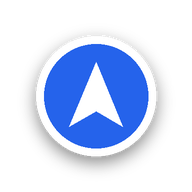
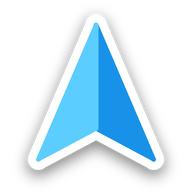
La freccia come Waze, e il celeste ai lati della coda si vede
- La freccia di navigazione: due toni di celeste, bordo bianco spesso e
  ombra morbida, senza il tondo blu dietro. La disegna
  tools/disegna_freccia.py.
- Col traffico la linea celeste è più larga e la coda più stretta: ai lati
  del rosso il celeste passa da 1,25 a 2,25 px per parte a zoom 12, e da
  3,5 a 7 a zoom 18.

Claude-Session: https://claude.ai/code/session_01Fi1szPkgYWAG8PNdWvu5yu

diff --git a/packages/gdanav_app/lib/mappa/stile.dart b/packages/gdanav_app/lib/mappa/stile.dart
@@ -204,9 +204,12 @@ List<Object> _seEco(String verde, String altro) => [
 
 /// Le larghezze del percorso a zoom 12 e a zoom 18: il bordo, la linea
 /// celeste e, dentro, la striscia della coda (vedi lo stile del percorso).
-const larghezzaBordo = (10.5, 30.0);
-const larghezzaPercorso = (8.0, 24.0);
-const larghezzaCoda = (5.5, 17.0);
+/* «Se c'è il rosso, la linea celeste all'esterno deve essere ancora un po'
+ * più larga: si deve vedere.» Il celeste ai lati della coda era 1,25 px per
+ * parte a zoom 12 e 3,5 a zoom 18: adesso 2,25 e 7. */
+const larghezzaBordo = (12.0, 35.0);
+const larghezzaPercorso = (9.5, 29.0);
+const larghezzaCoda = (5.0, 15.0);
 
 /// Larghezza che cresce con lo zoom, come fanno le strade vere.
 List<Object> _largo(double a12, double a18) => [
@@ -725,7 +728,7 @@ Map<String, Object> stileMappa({required bool scuro, String chiaveTraffico = '',
        * era larga quanto la linea e ci si posava sopra: nei tratti in coda il
        * percorso spariva, e una strada rossa sulla mappa non diceva più se
        * era la propria o una qualunque. Per questo la linea è un po' più
-       * larga di prima ([larghezzaPercorso]) e la coda circa due terzi
+       * larga di prima ([larghezzaPercorso]) e la coda circa la metà
        * ([larghezzaCoda]): «la linea del percorso è leggermente più larga,
        * quindi si vede al centro striscia rossa e ai lati striscia celeste».
        * Il celeste è un bordo, non una seconda strada accanto al rosso. */

diff --git a/packages/gdanav_app/test/stile_percorso_test.dart b/packages/gdanav_app/test/stile_percorso_test.dart
@@ -35,10 +35,12 @@ void main() {
         final linea = larghezza(s('percorso'), z);
         final coda = larghezza(s('code'), z);
         expect(linea, lessThan(bordo));
-        // Più stretta della linea, ai lati resta un bordo celeste; ma il
-        // rosso è la cosa che si legge: come in Waze, due terzi abbondanti.
-        expect(coda, lessThan(linea * 0.8));
-        expect(coda, greaterThan(linea * 0.6));
+        // Più stretta della linea, ai lati resta un bordo celeste che si
+        // vede: «se c'è il rosso, la linea celeste all'esterno deve essere
+        // ancora un po' più larga». Il rosso resta metà abbondante.
+        expect(coda, lessThan(linea * 0.6));
+        expect(coda, greaterThan(linea * 0.45));
+        expect((linea - coda) / 2, greaterThanOrEqualTo(2.0));
       }
     });
   }

diff --git a/tools/disegna_freccia.py b/tools/disegna_freccia.py
@@ -1,0 +1,41 @@
+"""La freccia di navigazione, come quella di Waze.
+
+«Mi cambi lo stile della freccia, la voglio come Waze.» Due toni di celeste —
+la meta' sinistra piu' chiara, la destra piu' scura, come una freccia piegata
+sul dorso — un bordo bianco spesso e un'ombra morbida; niente tondo dietro.
+
+    python3 tools/disegna_freccia.py packages/gdanav_app/assets/segnaposto/freccia.png
+"""
+import sys
+from PIL import Image, ImageDraw, ImageFilter
+S=4; N=192; W=N*S
+def pt(x,y): return (x*W, y*W)
+# La freccia, in su: punta, ala destra, incavo, ala sinistra.
+punta=(0.5,0.13); destra=(0.80,0.83); incavo=(0.5,0.67); sinistra=(0.20,0.83)
+forma=[punta,destra,incavo,sinistra]
+def gonfia(poly, r, img, colore):
+    d=ImageDraw.Draw(img)
+    pts=[pt(*p) for p in poly]
+    d.polygon(pts, fill=colore)
+    for i in range(len(pts)):
+        a=pts[i]; b=pts[(i+1)%len(pts)]
+        d.line([a,b], fill=colore, width=int(2*r))
+        d.ellipse([a[0]-r,a[1]-r,a[0]+r,a[1]+r], fill=colore)
+img=Image.new("RGBA",(W,W),(0,0,0,0))
+# Ombra
+ombra=Image.new("RGBA",(W,W),(0,0,0,0))
+gonfia([(x,y+0.025) for x,y in forma], 0.06*W, ombra, (0,0,0,120))
+ombra=ombra.filter(ImageFilter.GaussianBlur(0.035*W))
+img=Image.alpha_composite(img,ombra)
+# Bordo bianco
+bordo=Image.new("RGBA",(W,W),(0,0,0,0))
+gonfia(forma, 0.055*W, bordo, (255,255,255,255))
+img=Image.alpha_composite(img,bordo)
+# Due toni, come Waze: la meta' sinistra piu' chiara, la destra piu' scura.
+chiaro=Image.new("RGBA",(W,W),(0,0,0,0))
+gonfia([punta,incavo,sinistra], 0.012*W, chiaro, (92,205,255,255))
+scuro=Image.new("RGBA",(W,W),(0,0,0,0))
+gonfia([punta,destra,incavo], 0.012*W, scuro, (24,146,232,255))
+img=Image.alpha_composite(img,scuro)
+img=Image.alpha_composite(img,chiaro)
+img.resize((N,N),Image.LANCZOS).save(sys.argv[1])
